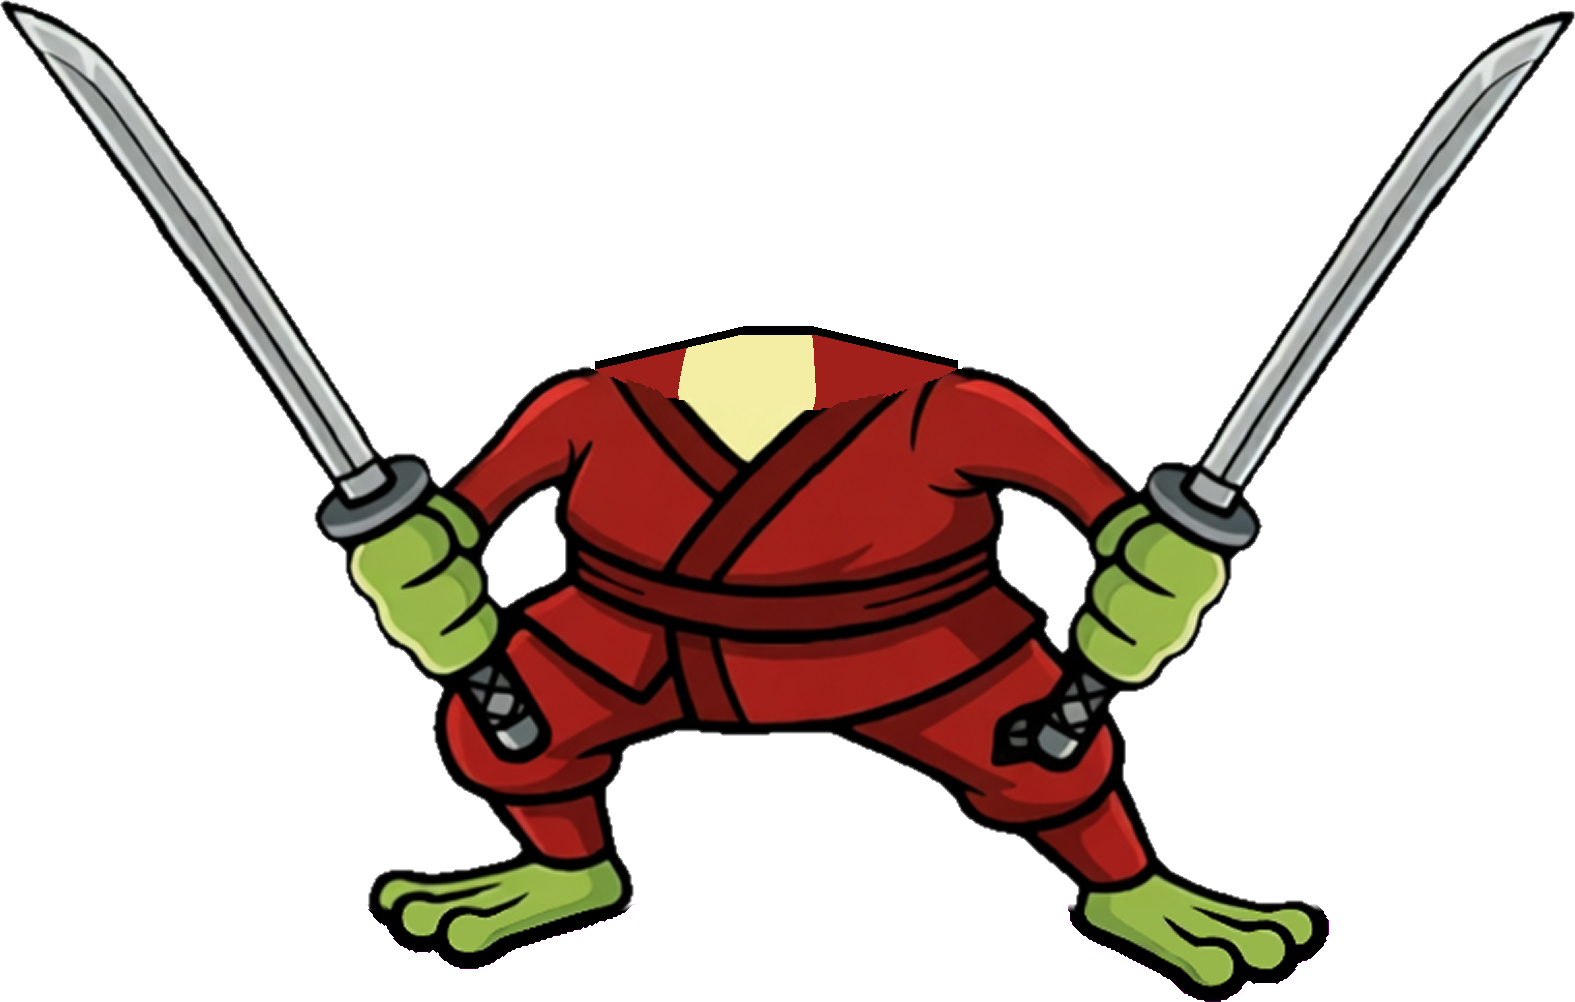
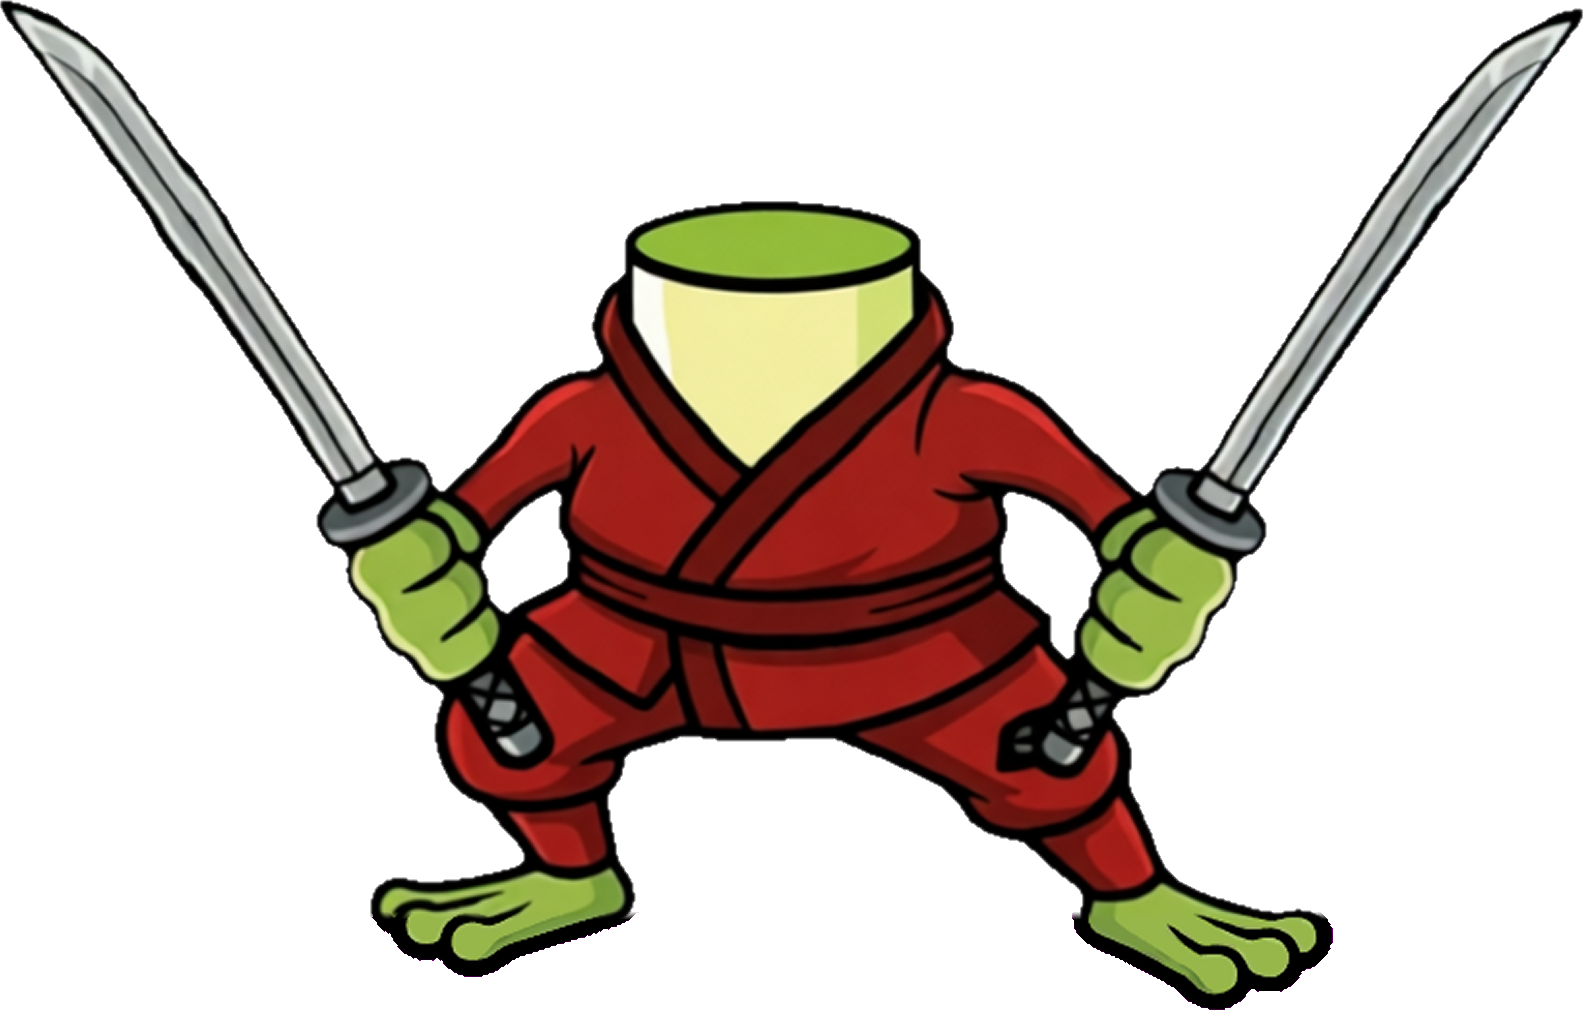
Frog Ninja: the standing bodies are drawn whole without a head (collar and neck drawn, nothing filled in by rule)

diff --git a/static/js/views/frog-game.js b/static/js/views/frog-game.js
@@ -1193,7 +1193,7 @@ function drawLaptop(ctx, b, lw) {
 // The standing frog, painted (Marek's pick, 2026-11-24): body, arms, fists and katanas as one picture, standing ready and
 // pressed (the wind-up); the rig's head and tails go on top. x, y, w, h: where it sits in the frog's units. ?stand=0: the rig.
 // STAND_ART:begin (written by design/frog/tools/art_build_stand.py: do not edit by hand)
-const STAND_ART = { ready: { url: '/img/game/frog/stand-ready.45a3b42cf4.webp', x: -596.0, y: -532.0, w: 3196.0, h: 2230.0 }, wind: { url: '/img/game/frog/stand-wind.b75cb53d83.webp', x: -1142.0, y: -176.0, w: 4274.0, h: 1874.0 }, tired: { url: '/img/game/frog/stand-tired.10eeb32de1.webp', x: -1234.0, y: 302.0, w: 4466.0, h: 1396.0 }, stun: { url: '/img/game/frog/stand-stun.675e243aad.webp', x: -580.0, y: -306.0, w: 3150.0, h: 2004.0 } };
+const STAND_ART = { ready: { url: '/img/game/frog/stand-ready.5685e81343.webp', x: -608.0, y: -550.0, w: 3212.0, h: 2248.0 }, wind: { url: '/img/game/frog/stand-wind.e6eb310396.webp', x: -1154.0, y: -192.0, w: 4296.0, h: 1890.0 }, tired: { url: '/img/game/frog/stand-tired.e7e6788583.webp', x: -1250.0, y: 32.0, w: 4490.0, h: 1666.0 }, stun: { url: '/img/game/frog/stand-stun.7e2b4dbb7f.webp', x: -588.0, y: -322.0, w: 3166.0, h: 2020.0 } };
 // STAND_ART:end
 const STAND_ON = typeof location === 'undefined' || !/[?&]stand=0(&|$)/.test(location.search);
 // The frog's splash when it goes into the sea at the end of a run, painted (built by art_build_splash.py).

diff --git a/design/frog/tools/art_stand_cut.py b/design/frog/tools/art_stand_cut.py
@@ -1,114 +1,54 @@
 #!/usr/bin/env python3
-"""Step 2 of the painted standing frog (see art_build_stand.py): the redrawn frogs (qwen_edit.py on the captures of
-art_stand_capture.py; here d-6 = ready, w-3 = wind) are coloured to the gi's red, cut off magenta, registered on their
-capture by the legs, put in frog units (K px a unit), the redrawn head taken out (the rig's head goes on top) and the
-rig's own neck put under it. Writes stand-<state>.png and stand.json (x, y, w, h in frog units): copy them to
-design/frog/art/sources/stand/ as ready.png, wind.png, stand.json. Run in the folder with the captures."""
-import sys, os, json, numpy as np
+"""Step 2 of the painted standing frog (see art_build_stand.py). Run in the folder with the captures of
+art_stand_capture.py (cap-<state>-full/body.png, cap.json) and the picked drawings.
+
+Each pose is ONE drawing of the whole body WITHOUT a head (Marek's rule, 2026-11-24: a part that carries a moving part
+is proven on its own, then the head is glued on top). It is made in two edits with qwen_edit.py: first the pose with
+slim sleeves that are one piece with the jacket (from the rig's capture), then that drawing with "remove the head: the
+collar closes around a short green neck stump". The head never leaves a hole: the neck and collar are drawn.
+(Tried and thrown away: cutting the head out of the first drawing and filling what was under it by rule. Every head
+movement showed a new seam.)
+
+Here the headless drawing is cut off magenta, registered on the capture by its legs, put in frog units (K px a unit),
+and given the rig's own feet (so the toes sit on the post exactly as before). Writes stand-<state>.png and stand.json
+(x, y, w, h in frog units): copy them to design/frog/art/sources/stand/ as <state>.png and stand.json.
+"""
 import sys, os, json, numpy as np
 sys.path.insert(0, r'C:\Users\marek\Documents\GitHub\cfp.ninja\design\frog\tools')
 from art_build_gull import keyed
 from PIL import Image
 from scipy import ndimage
+PICKS = {'ready': 'nh-ready-3', 'wind': 'nh-wind-3', 'tired': 'nh-tired-3', 'stun': 'nh-stun-3'}       # the headless drawings
 info = json.load(open('cap.json'))
 K = 0.5; U0 = (-1300, -900); RW, RH = int(4600 * K), int(2900 * K)       # raster: px = (unit - U0) * K
+ANKLE = 1500          # frog units: from here down the rig's feet
+BOX = (680, 860, 1880, 1660)         # the part of the 2x capture the drawings were made from
 def to_raster(img, ctm, off=(0, 0), res=Image.BICUBIC):
     a, b, c, d, e, f = ctm
-    # raster px -> source px:  sx = 2*(a*(px/K+U0x)+e) - offx
     return img.transform((RW, RH), Image.AFFINE, (2 * a / K, 0, 2 * (a * U0[0] + e) - off[0], 0, 2 * d / K, 2 * (d * U0[1] + f) - off[1]), res)
 def notmag(im):
     A = np.asarray(im.convert('RGB')).astype(int); return ~((A[..., 0] > A[..., 1] + 45) & (A[..., 2] > A[..., 1] + 20))
-def redmask(A): return (A[..., 0] > 110) & (A[..., 1] < 70) & (A[..., 2] < 70)
-ref = np.asarray(Image.open('in-idle.png').convert('RGB')).astype(float); rm = np.median(ref[redmask(ref)], axis=0)
 out = {}
-ANKLE = 1500          # frog units: from here down the rig's feet
-for state, gen in (('ready', 'd-6'), ('wind', 'w-3'), ('tired', 'tired-2'), ('stun', 'stun-6')):
-    im = Image.open(gen).convert('RGB').resize((1200, 800), Image.LANCZOS); A = np.asarray(im).astype(float)
-    m = (A[..., 0] > 80) & (A[..., 1] < 75) & (A[..., 2] < 75) & (A[..., 0] > A[..., 1] * 1.8)
-    # (no colour fix here any more: the colour guardian paints the palette over the built picture)
-    Image.fromarray(A.astype(np.uint8)).save('cc.png'); fr = keyed('cc.png', loose=True)
+for state, gen in PICKS.items():
+    Image.open(gen).convert('RGB').resize((BOX[2] - BOX[0], BOX[3] - BOX[1]), Image.LANCZOS).save('cc.png'); fr = keyed('cc.png', loose=True)
     full = Image.open(f'cap-{state}-full.png').convert('RGB')
-    # register the generated frog on the capture it was made from: the feet and legs did not change
-    fa = np.asarray(fr)[..., 3] > 128; ca = notmag(full.crop((680, 860, 1880, 1660)))
-    best = None
-    for dy in range(-8, 9):
-        for dx in range(-8, 9):
-            s = (np.roll(np.roll(fa, dy, 0), dx, 1)[560:780] ^ ca[560:780]).sum()
+    # register the drawing on the capture it was made from: the feet and legs did not change
+    fa = np.asarray(fr)[..., 3] > 128; ca = notmag(full.crop(BOX)); best = None
+    for dy in range(-10, 11):
+        for dx in range(-10, 11):
+            s = (np.roll(np.roll(fa, dy, 0), dx, 1)[600:780] ^ ca[600:780]).sum()
             if best is None or s < best[0]: best = (s, dx, dy)
-    print(state, 'register', best)
-    _, dx, dy = best
-    P = to_raster(fr, info[f'{state}-full'], (680 + dx, 860 + dy))
-    M = np.asarray(to_raster(Image.fromarray((notmag(Image.open(f'cap-{state}-head.png')) * 255).astype(np.uint8)), info[f'{state}-head'])) > 128
+    _, dx, dy = best; print(state, 'register', best)
+    PA = np.asarray(to_raster(fr, info[f'{state}-full'], (BOX[0] + dx, BOX[1] + dy))).copy()
+    lab, n = ndimage.label(PA[..., 3] > 40); big = 1 + int(np.argmax(ndimage.sum(PA[..., 3] > 40, lab, range(1, n + 1)))); PA[lab != big, 3] = 0      # loose scraps go
+    # the feet are the rig's own: from the ankles down, blended over a few rows
     B = np.asarray(to_raster(Image.fromarray((notmag(Image.open(f'cap-{state}-body.png')) * 255).astype(np.uint8)), info[f'{state}-body'])) > 128
-    Fu = to_raster(full, info[f'{state}-full'])
-    PA = np.asarray(P).copy(); al = PA[..., 3] > 40
-    ys, xs = np.nonzero(M); headmid = (ys.min() + ys.max()) / 2
-    red = redmask(PA.astype(int)) & al; red[:int(headmid)] = False
-    # the torso's zone: from the first red of each column (below the head's middle) down, and the outline just above it
-    zone = np.zeros_like(al); H = al.shape[0]
-    for x in range(al.shape[1]):
-        r = np.nonzero(red[:, x])[0]
-        if len(r): zone[max(0, r[0] - 9):, x] = True
-    ring = ndimage.binary_dilation(M, iterations=4) & ~M                         # (the redrawn head is a hair off the rig's: its outline goes too)
-    erase = M | ring
-    PA[erase, 3] = 0
-    lab, n = ndimage.label(PA[..., 3] > 40); big = 1 + int(np.argmax(ndimage.sum(PA[..., 3] > 40, lab, range(1, n + 1)))); PA[lab != big, 3] = 0      # scraps of the redrawn head and tails go
     BI = np.asarray(to_raster(Image.open(f'cap-{state}-body.png').convert('RGB'), info[f'{state}-body']))
-    # Under the head the body carries on: the head moves (it turns to the cursor, tips, blinks), and what it uncovers
-    # must be the jacket and the chest, not a hole or the rig's neck. The shoulders' top runs straight from where the
-    # left shoulder goes under the head to where the right one comes out; below that line the picture's own colours
-    # are carried up (never its ink), and the line itself is inked, so the shoulder's outline goes on under the cheek.
-    kept = PA[..., 3] > 200; yy, xx = np.nonzero(ndimage.binary_dilation(erase, iterations=3) & kept & (np.arange(RH)[:, None] > headmid))
-    xl, xr = xx.min(), xx.max(); yl = yy[xx < xl + 8].min(); yr = yy[xx > xr - 8].min()
-    # each shoulder's top goes on under the head at its own slope (a straight chord between the two made a flat corner
-    # beside the chin when the head moved), up to a flat neck top
-    top = np.where(kept.any(0), kept.argmax(0), RH).astype(float); cols = np.arange(RW)
-    def slope(x0, x1):
-        k = (cols >= x0) & (cols <= x1) & (top < RH)
-        return float(np.polyfit(cols[k], top[k], 1)[0]) if k.sum() > 8 else 0.0
-    sl = float(np.clip(slope(xl - 45, xl - 3), -0.35, 0)); sr = float(np.clip(slope(xr + 3, xr + 45), 0, 0.35))
-    cap = min(yl, yr) - 34
-    line = np.maximum(np.maximum(yl + sl * (cols - xl), yr + sr * (cols - xr)), cap)[None, :]; rows_ = np.arange(RH)[:, None]
-    inkish = PA[..., :3].max(-1) < 70
-    near = ndimage.binary_dilation(M, iterations=10)
-    flatsrc = ndimage.binary_erosion(kept & ~inkish, iterations=5) & ~near     # (flat colour only: an edge pixel would smear as a streak)
-    _, (iy, ix) = ndimage.distance_transform_edt(~flatsrc, return_indices=True)
-    # just outside the head's place the redrawn head left its outline and soft edge: whatever there is not the flat
-    # colour beside it goes too, and is filled like the rest
-    dirty = near & ~erase & kept & (rows_ > headmid) & (np.abs(PA[..., :3].astype(int) - PA[iy, ix, :3].astype(int)).max(-1) > 40)
-    erase = erase | dirty; PA[dirty, 3] = 0
-    seam = ndimage.binary_dilation(erase, iterations=2) & ~erase & (rows_ > headmid) & near       # (the soft pixels along the cut would stay as a hairline)
-    erase = erase | seam; PA[seam, 3] = 0
-    fill = erase & (rows_ > line + 3) & (np.arange(RW)[None, :] >= xl) & (np.arange(RW)[None, :] <= xr)
-    # two plain colours only: the chest's cream where the chest is nearest, the robe's own red everywhere else (a carried-up
-    # highlight or lapel showed as an odd patch beside the chin when the head turned; Marek, 2026-11-24)
-    srcc = PA[iy[fill], ix[fill], :3].astype(int); creamy = (srcc[:, 0] > 190) & (srcc[:, 1] > 190)
-    rb = PA[..., :3][kept & (PA[..., 0] > 120) & (PA[..., 1] < 70) & (PA[..., 2] < 70)]; robe = np.median(rb, axis=0)
-    cr = srcc[creamy]; cream = np.median(cr, axis=0) if len(cr) else robe
-    PA[fill, :3] = np.where(creamy[:, None], cream, robe).astype(np.uint8); PA[fill, 3] = 255
-    edge = erase & (np.abs(rows_ - line) <= 4) & (np.arange(RW)[None, :] >= xl) & (np.arange(RW)[None, :] <= xr)
-    PA[edge, :3] = 0; PA[edge, 3] = 255
-    # soften the cut edge under the head a touch is not needed: the head covers it
-    # the feet are the rig's own (the redrawn toes sat a little off the post's edge): from the ankles down, blended over a few rows
     yc = int((ANKLE - U0[1]) * K); wgt = np.clip((np.arange(RH) - yc) / 8.0, 0, 1)[:, None]
     rig = np.dstack([BI, (B * 255).astype(np.uint8)]).astype(float); PAf = PA.astype(float)
     pm = PAf.copy(); pm[..., :3] *= PAf[..., 3:] / 255; rg = rig.copy(); rg[..., :3] *= rig[..., 3:] / 255
     mix = pm * (1 - wgt[..., None]) + rg * wgt[..., None]; aa = np.maximum(mix[..., 3:], 1e-6)
     PA = np.dstack([np.clip(mix[..., :3] / aa * 255, 0, 255), mix[..., 3]]).astype(np.uint8)
-    P2 = Image.fromarray(PA, 'RGBA')
-    al2 = PA[..., 3] > 40
-    peek = B & ~al2 & ~ndimage.binary_dilation(M, iterations=6); print(state, 'body peeking px', int(peek.sum()))
-    box = P2.getbbox(); crop = P2.crop(box); crop.save(f'stand-{state}.png')
-    out[state] = dict(x=round(box[0] / K + U0[0], 1), y=round(box[1] / K + U0[1], 1), w=round(crop.width / K, 1), h=round(crop.height / K, 1))
-    # preview: body under, the picture, the head over (cut from the capture)
-    bodyim = to_raster(Image.open(f'cap-{state}-body.png').convert('RGB'), info[f'{state}-body']).convert('RGBA'); ba = np.asarray(bodyim).copy(); ba[..., 3] = B * 255
-    headim = to_raster(Image.open(f'cap-{state}-head.png').convert('RGB'), info[f'{state}-head']).convert('RGBA'); ha = np.asarray(headim).copy(); ha[..., 3] = M * 255
-    pv = Image.new('RGBA', (RW, RH), (60, 140, 200, 255))
-    pv.alpha_composite(P2); pv.alpha_composite(Image.fromarray(ha))
-    nb = Image.new('RGBA', (RW, RH), (60, 140, 200, 255)); nb.alpha_composite(P2)
-    pk = np.asarray(pv.convert('RGB')).copy(); pk[peek] = (255, 255, 0)
-    bb = (box[0] - 20, 250, box[2] + 20, box[3] + 20)
-    sh = Image.new('RGB', ((bb[2] - bb[0]) * 2, (bb[3] - bb[1]) * 2))
-    for i, t in enumerate((Fu, pv.convert('RGB'), nb.convert('RGB'), Image.fromarray(pk))): sh.paste(t.crop(bb), ((i % 2) * (bb[2] - bb[0]), (i // 2) * (bb[3] - bb[1])))
-    sh.save(f'pv-{state}.png'); print(state, out[state], sh.size)
+    P2 = Image.fromarray(PA, 'RGBA'); box = P2.getbbox(); crop = P2.crop(box); crop.save(f'stand-{state}.png')
+    out[state] = dict(x=round(box[0] / K + U0[0], 1), y=round(box[1] / K + U0[1], 1), w=round(crop.width / K, 1), h=round(crop.height / K, 1)); print(state, out[state])
 json.dump(out, open('stand.json', 'w'))
